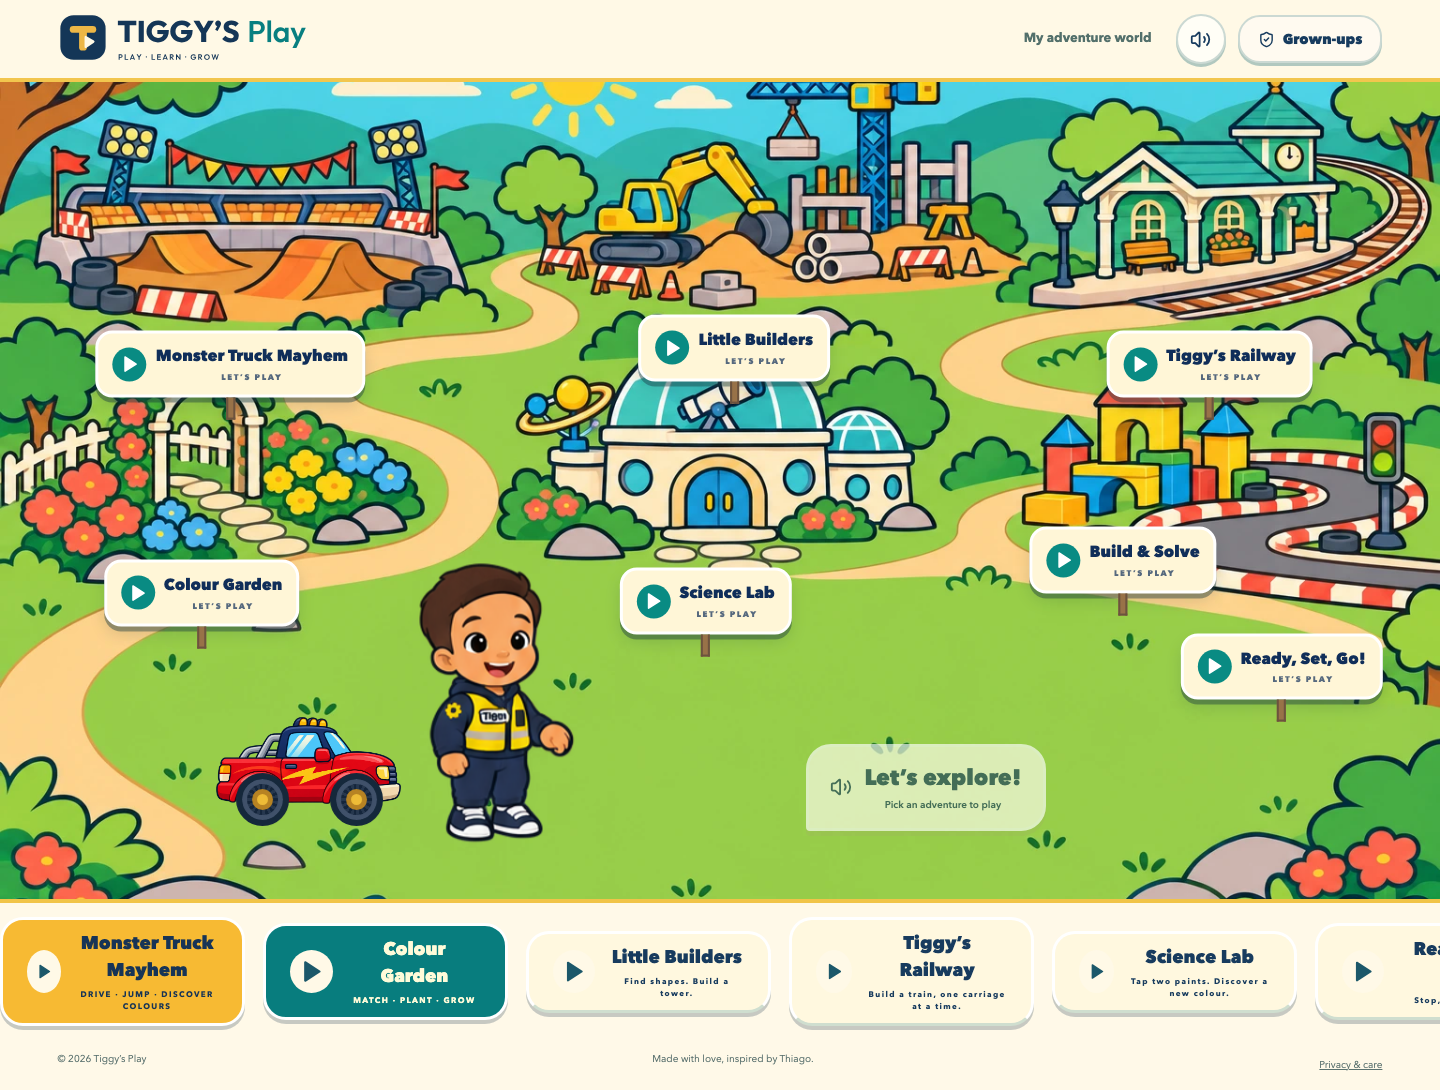
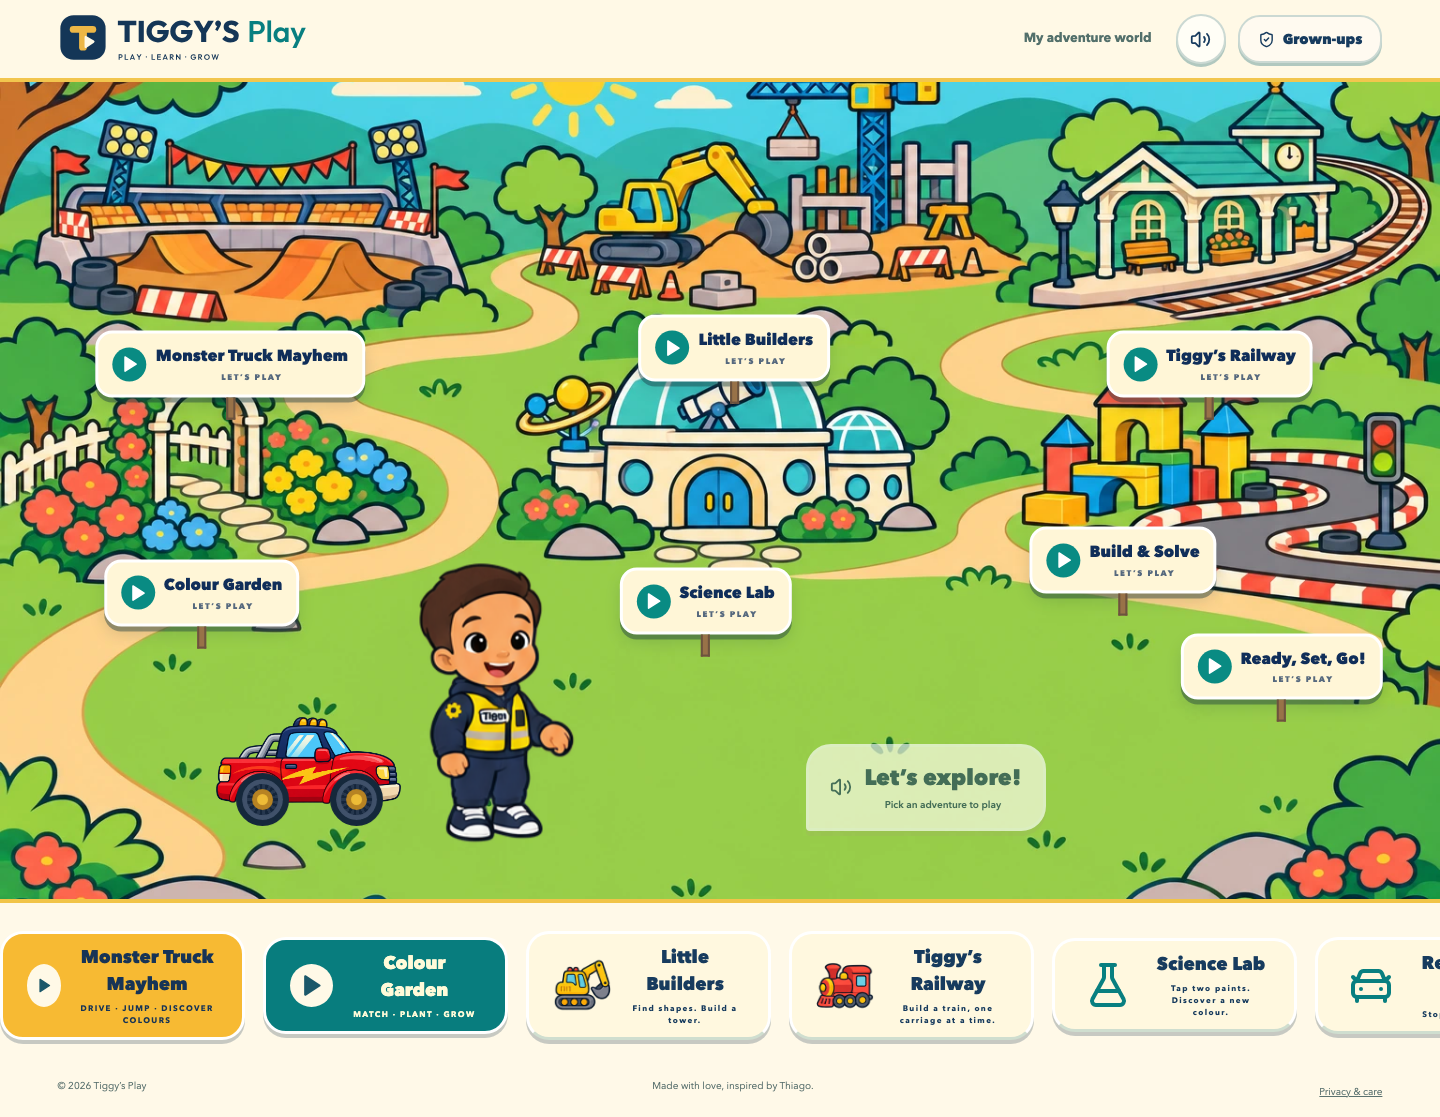
Add picture shortcuts for non-reading adventure navigation

diff --git a/src/components/World.tsx b/src/components/World.tsx
@@ -6,12 +6,25 @@ import {
   Play,
   Volume2,
   Sparkles,
+  FerrisWheel,
+  FlaskConical,
+  CarFront,
 } from "lucide-react";
 import { useVoiceAvailable } from "./useVoice";
 import { activities, activityIds, type ActivityId } from "../game/activities";
 import Tiggy from "./Tiggy";
 import { speak, chime } from "../game/audio";
 export type GameId = "garden" | "trucks" | ActivityId;
+const activityThumbnails: Record<ActivityId, number> = {
+  builders: 19,
+  railway: 21,
+  science: 23,
+  ready: 19,
+  blocks: 17,
+  ferris: 0,
+  breakfast: 0,
+  potty: 11,
+};
 const areas = [
   { name: "Monster Truck Mayhem", x: 16, y: 31, game: "trucks" },
   { name: "Little Builders", x: 51, y: 29, game: "builders" },
@@ -187,7 +200,21 @@ export default function World({
             aria-label={`Open ${activities[id].name}`}
             onClick={() => onPlay(id)}
           >
-            <Play fill="currentColor" />
+            {id === "science" ? (
+              <FlaskConical className="dock-picture" aria-hidden="true" />
+            ) : id === "ready" ? (
+              <CarFront className="dock-picture" aria-hidden="true" />
+            ) : id === "ferris" ? (
+              <FerrisWheel className="dock-picture" aria-hidden="true" />
+            ) : (
+              <span
+                className="activity-sprite dock-picture"
+                aria-hidden="true"
+                style={{
+                  backgroundPosition: `${(activityThumbnails[id] % 6) * 20}% ${(Math.floor(activityThumbnails[id] / 6) * 100) / 3}%`,
+                }}
+              />
+            )}
             <span>
               {activities[id].name}
               <small>{activities[id].subtitle}</small>

diff --git a/src/app/globals.css b/src/app/globals.css
@@ -1466,3 +1466,23 @@ footer button {
   border-color: #087f80;
   background: #d7ede4;
 }
+
+.play-dock .dock-picture {
+  flex: 0 0 58px;
+  width: 58px;
+  height: 58px;
+  border-radius: 14px;
+  padding: 0;
+  background-color: transparent;
+}
+.play-dock svg.dock-picture {
+  padding: 5px;
+  color: #087f80;
+}
+@media (max-width: 600px) {
+  .play-dock .dock-picture {
+    flex-basis: 48px;
+    width: 48px;
+    height: 48px;
+  }
+}

diff --git a/docs/audio/VOICE-SYSTEM.md b/docs/audio/VOICE-SYSTEM.md
@@ -38,3 +38,7 @@ The ten activities call the same manager. Colour Garden and Monster Truck Mayhem
 - OpenAI: TTS supports delivery instructions and built-in voice choices; its documentation does not establish a guaranteed toddler character voice. No API key is configured. No adult stock voice was substituted. [TTS guide](https://developers.openai.com/api/docs/guides/text-to-speech).
 
 A voice performer or permitted fictional-character synthesis workflow can produce the same MP3/WAV scripts without changing the games. When a provider is used later, generate files outside the browser using server-side credentials; never add a `NEXT_PUBLIC_` provider key or expose a paid generation endpoint to children. This build calls no speech provider at runtime and needs no voice secrets.
+
+## Performance brief for prerecorded dialogue
+
+Tiggy: an original cheerful young cartoon boy, curious and warm, with clear consonants and short natural phrases. Preserve a gentle Irish-English character where the performer can deliver it naturally. Avoid adult narration, exaggerated baby speech, squeakiness and artificial pitch shifting. Benny: a separate friendly, rounded bear character performance, not the same voice renamed. Deliver one clean MP3/WAV per exact script, without background music or spoken stage directions; let the app provide the response pauses. Preview real performances for intelligibility and emotional fit before approving a pack. No recording or likeness of Thiago is needed.
